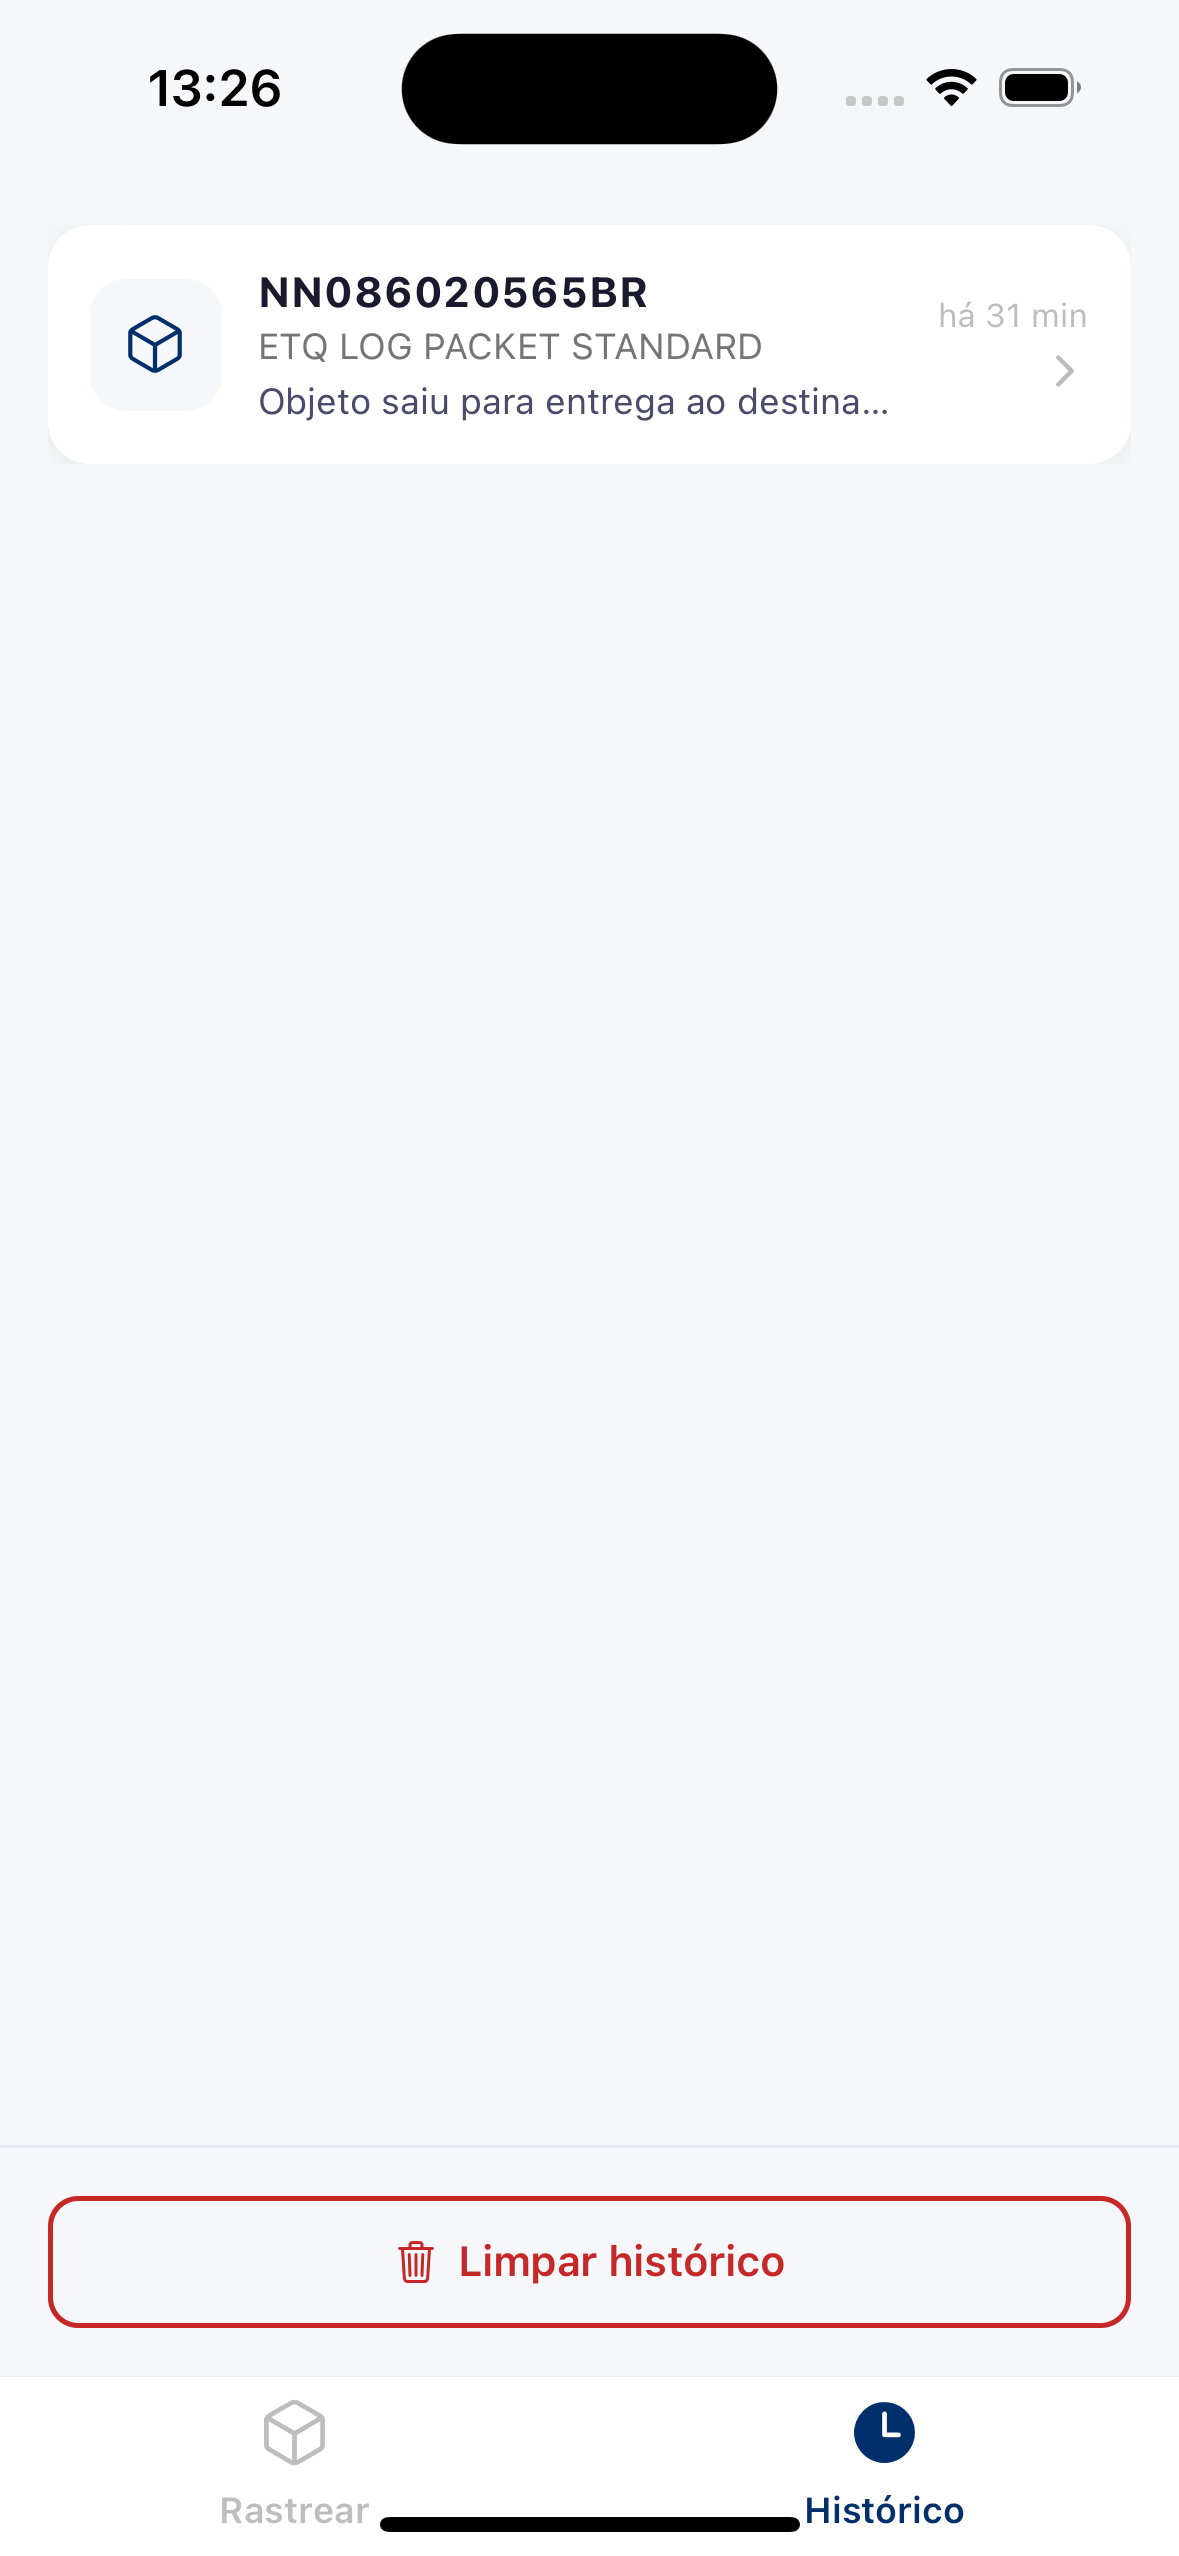
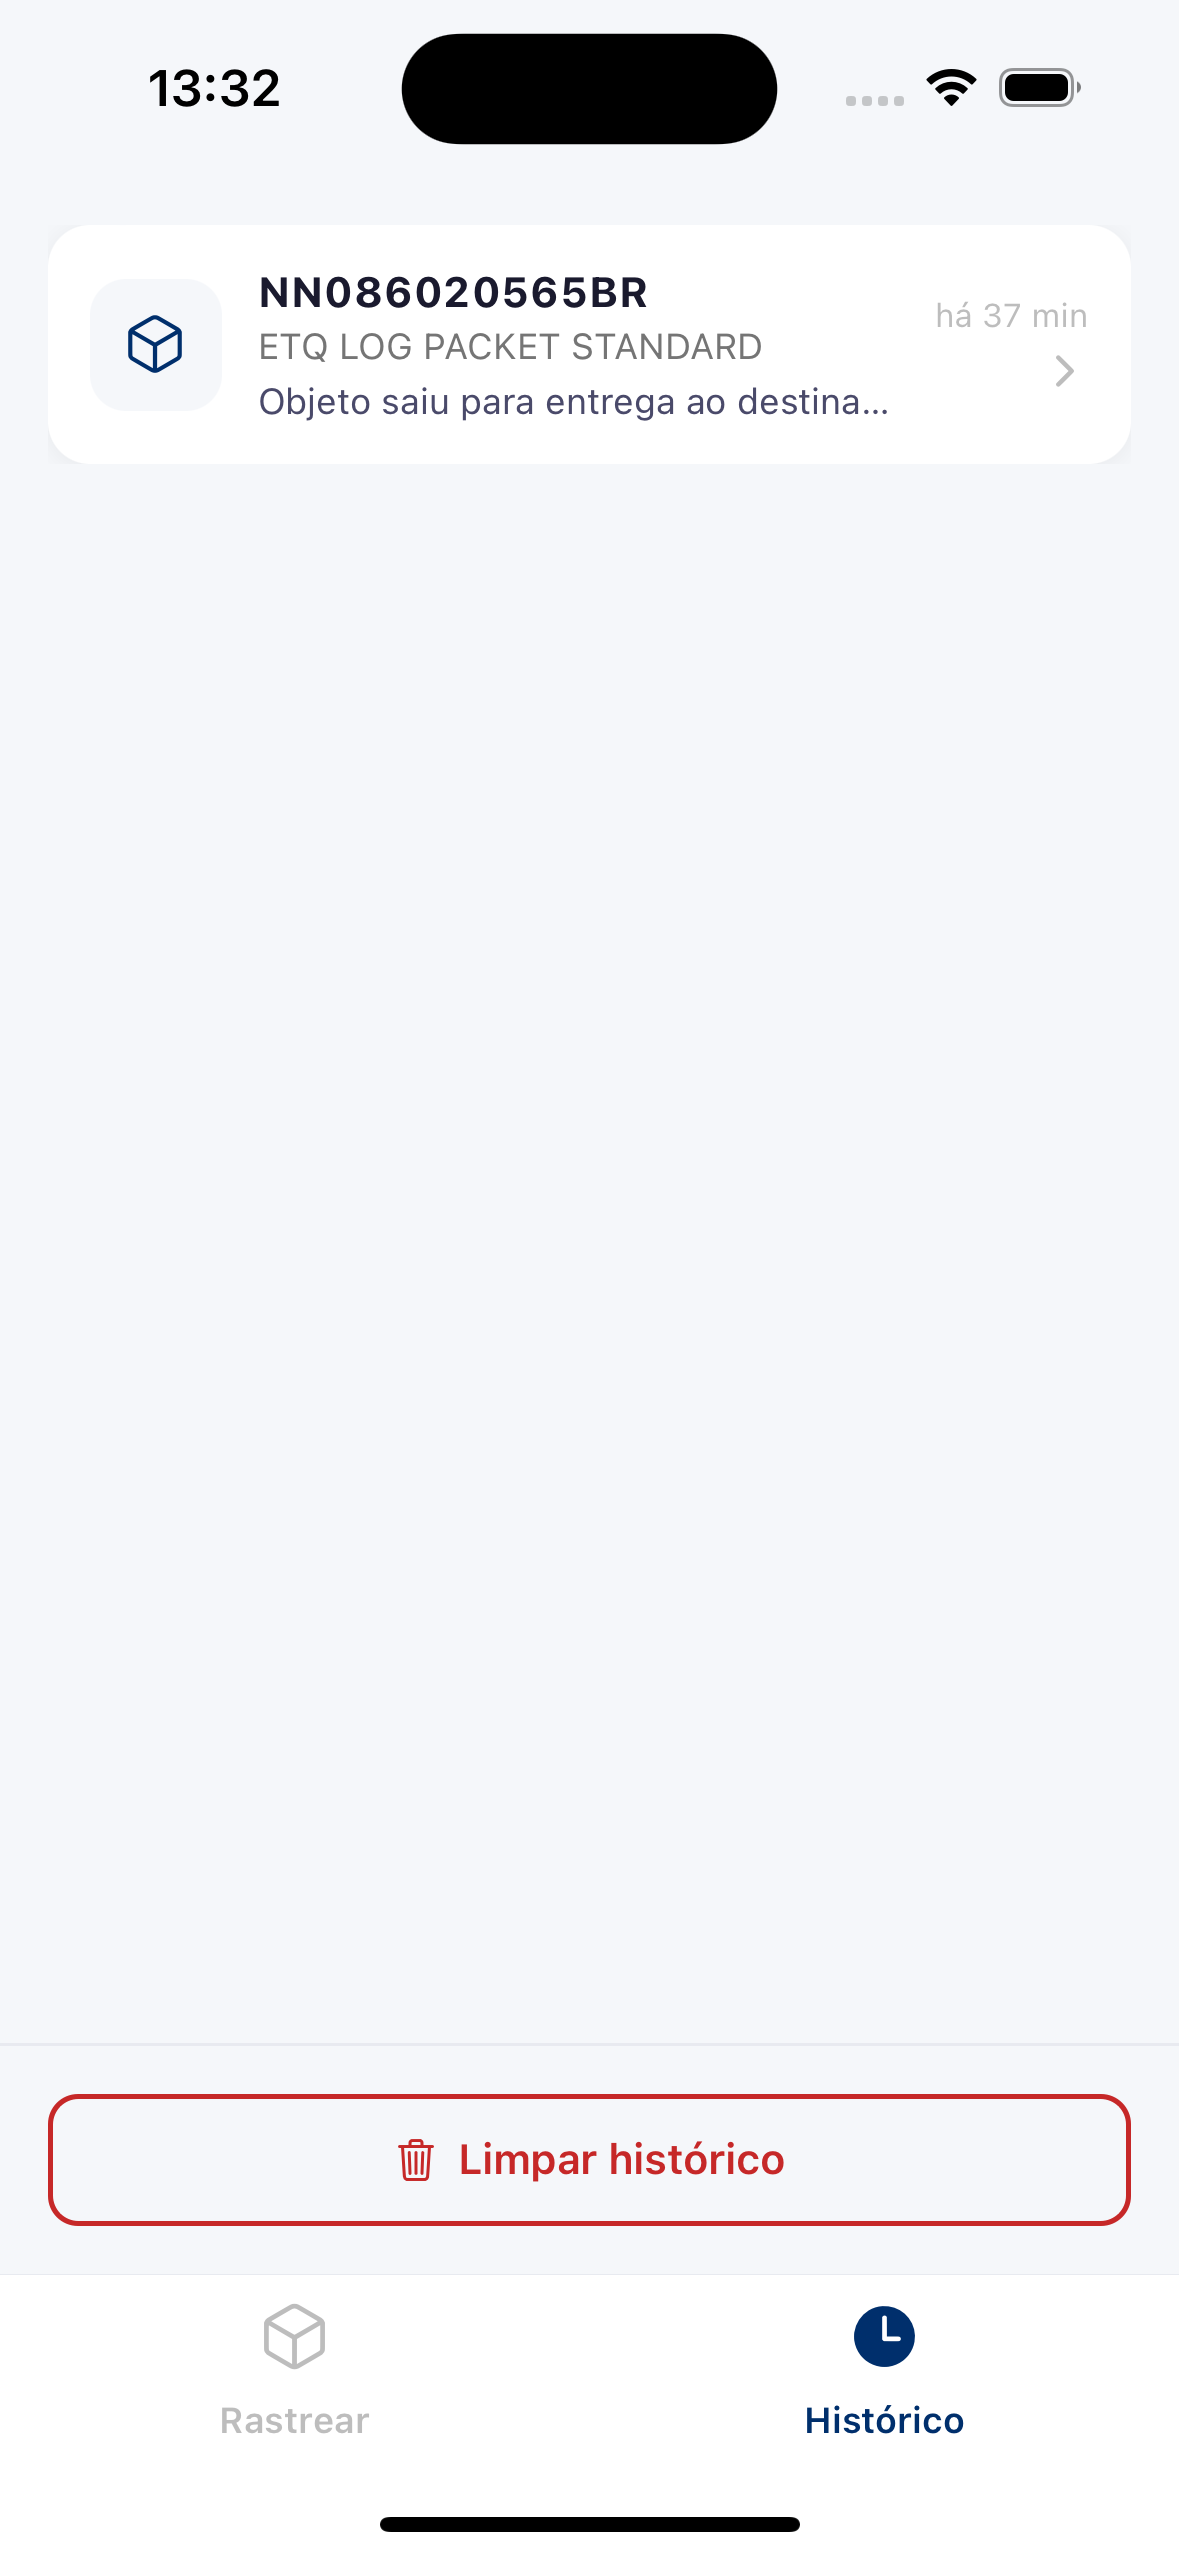
wip

diff --git a/mobile/src/navigation/index.tsx b/mobile/src/navigation/index.tsx
@@ -3,6 +3,7 @@ import { NavigationContainer } from '@react-navigation/native';
 import { createNativeStackNavigator } from '@react-navigation/native-stack';
 import { createBottomTabNavigator } from '@react-navigation/bottom-tabs';
 import { Ionicons } from '@expo/vector-icons';
+import { useSafeAreaInsets } from 'react-native-safe-area-context';
 
 import { HomeScreen } from '../screens/HomeScreen';
 import { TrackingScreen } from '../screens/TrackingScreen';
@@ -14,6 +15,8 @@ const Stack = createNativeStackNavigator<RootStackParamList>();
 const Tab = createBottomTabNavigator();
 
 function TabNavigator() {
+  const { bottom } = useSafeAreaInsets();
+
   return (
     <Tab.Navigator
       screenOptions={({ route }) => ({
@@ -23,8 +26,8 @@ function TabNavigator() {
         tabBarStyle: {
           borderTopColor: colors.bordaLinha,
           backgroundColor: colors.fundoCard,
-          paddingBottom: 4,
-          height: 60,
+          paddingBottom: bottom > 0 ? bottom : 8,
+          height: 60 + (bottom > 0 ? bottom : 0),
         },
         tabBarLabelStyle: {
           fontSize: 12,
